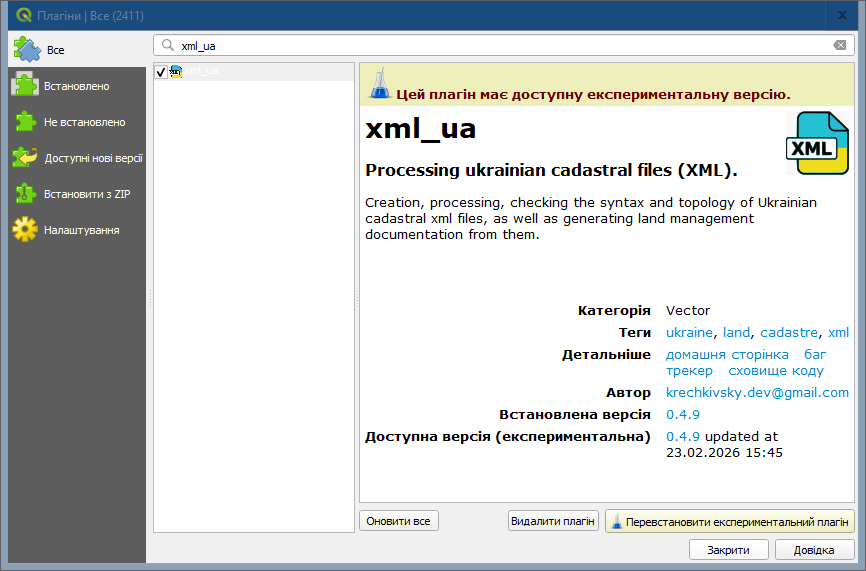
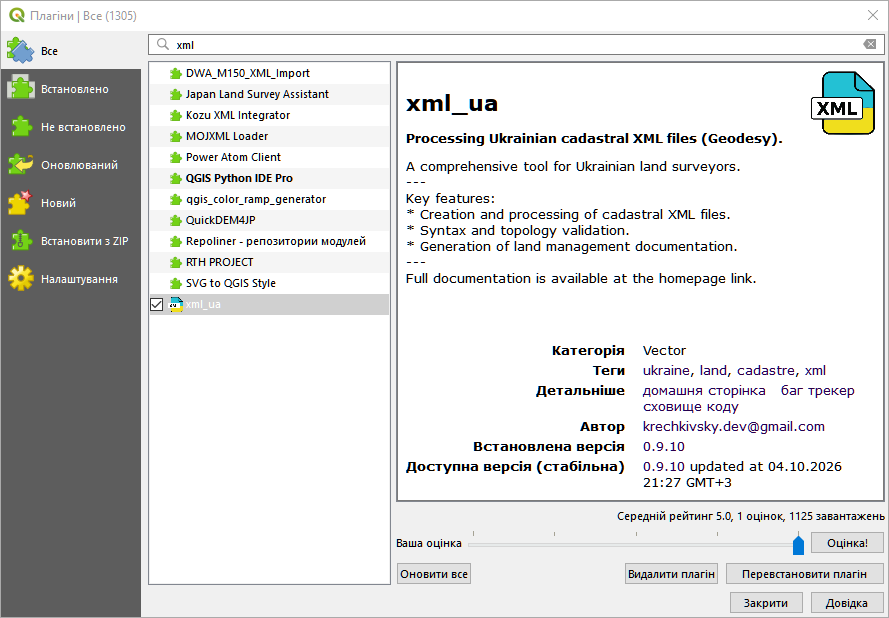
QGIS4

diff --git a/docs/validation.md b/docs/validation.md
@@ -1,35 +1,27 @@
-# Робота над помилками у атрибутах XML
+# Підказки під час роботи з XML
 
+Плагін **xml_ua** допомагає помічати, що потрібно доопрацювати у кадастровому XML. Це не окрема перевірка, яку треба запускати після роботи, а підказки, що з'являються у реальному часі — просто під час редагування.
 
-Ви коли-небудь читали <a href="https://zakon.rada.gov.ua/laws/show/1051-2012-%D0%BF#Text" target="_blank">Постанову 1051</a>? Це такий собі лонгрід, що описує структуру кадастрового XML-файлу. Кажуть, там сотні правил, і кожне з них — чудовий засіб від безсоння. Варто почати читати, і сон приходить миттєво.
+Не потрібно запускати перевірку щоразу після зміни даних або відкривати текстові протоколи з переліком помилок. Плагін одразу позначає проблемні місця: елементи чи значення, які потрібно виправити або додати, виділяються червоним.
 
-Хороша новина: Вам не доведеться вивчати цей документ напам'ять. Плагін **xml_ua** знає все, що у тому лонгріді написано про XML-файли:
+---
+На зображенні показано команду перевірки в меню. Щоб отримувати підказки під час редагування, запускати цю команду не потрібно.
 
-*   Він **не дозволить вам додати зайвий або неправильний атрибут** у файл.
-*   А якщо чогось бракує або щось пішло не так — він обов'язково про це розповість.
+![Команда перевірки XML у меню](images/item_check.png)
+---
 
-## Запускаємо перевірку
-
-Перевірка XML-файлу після кожної зміни атрибутів занадто навантажує процесор, особливо на не нових ноутбуках. Порядок елементів XML строго регламетується. Тому, дії **"Впорядкувати за XSD"** і **"Перевірити"** здійснюється тільки за командою користувача.
-
-![Перевірити XML](images/item_check.png)
-
-Після завершення перевірки у вікні віджета дерево xml буде розкрито на **всіх** елементах з помилкою, і вони будуть виділені червоним кольором. 
-Щоб дізнатися, у чому полягає помилка, досить навести вказівник миші на червоний елмент, і у спливаючій підказці буде повний опис помилки. 
+## Щоб дізнатися, що саме потрібно зробити, наведіть вказівник миші на червоний елемент. З'явиться конкретна підказка — наприклад, який обов'язковий елемент бракує.
 
 <a href="images/err_syntax.png" target="_blank" title="Натисніть, щоб відкрити зображення у повному розмірі">
-    <img src="images/err_syntax.png" alt="Головне вікно плагіна">
+    <img src="images/err_syntax.png" alt="Червоним позначено елемент, а при наведенні показано підказку">
 </a>
 
-Як правило, це відсутність обов'язкового дочірнього елемента. 
+---
 
-Для кожного такого випадку плагін "знає", які дочірні необхідні елементи вже додано, а які ще потрібно додати. Лише ті, які потрібно, будуть з'являтися у контекстному меню.
-
-Взагалі, плагін "знає", що і де можна додати, або видалити з дерева xml. Пам'ятає також, які елементи обов'язковими, а які ні. Досить лише клацнути правою кнопкою миші на потрібному елементі.
+## Коли для виправлення потрібно додати або прибрати елемент, скористайтеся контекстним меню: клацніть по потрібному елементу правою кнопкою миші. У меню плагін покаже доступні дії.
 
 <a href="images/err_correction.png" target="_blank" title="Натисніть, щоб відкрити зображення у повному розмірі">
-    <img src="images/err_correction.png" alt="Головне вікно плагіна">
+    <img src="images/err_correction.png" alt="Контекстне меню з доступними діями для виправлення XML">
 </a>
 
-
-Тепер ви знаєте, де проблема, і можете легко її виправити, не вдаючись до глибокого вивчення нормативних документів.
+Тож вам не потрібно шукати проблему в довгому протоколі чи самостійно згадувати всі вимоги. Дивіться, що виділено червоним, наведіть на це вказівник і скористайтеся підказкою.

diff --git a/docs/install_plugin.md b/docs/install_plugin.md
@@ -1,83 +1,18 @@
 
 # Встановлення плагіна xml_ua
 
-Оскільки плагін наразі не опублікований в офіційному репозиторії QGIS, встановлення відбувається з ZIP-архіву, завантаженого з GitHub.
+### Крок 1: Відкрийте вікно плагінів QGIS
 
-## Передумови
+Перейдіть до головного меню та виберіть **Плагіни** -> **Управління та встановлення плагінів**
 
-Перед встановленням плагіна переконайтеся, що у вас встановлено QGIS 3.34.15. Якщо ні, будь ласка, зверніться до розділу [Встановлення QGIS](./install_qgis.md).
 
-## Якщо потрібна остання версія, тоді тільки ZIP-архів з GitHub:
-
-### Крок 1: Завантаження плагіна з GitHub
-
-1.  Перейдіть на сторінку релізів проєкту на GitHub за посиланням:
-    <a href="https://github.com/krechkivsky/xml_ua/releases" target="_blank">**xml_ua**</a>
-
-2.  Знайдіть останній реліз та завантажте файл `xml_ua-vX.Y.Z.zip`. Збережіть цей архів на вашому комп'ютері.
-
-### Крок 2: Встановлення з ZIP-архіву в QGIS
-
-1.  **Відкрийте QGIS 3.34.15**
-2.  Перейдіть до головного меню та виберіть **Плагіни** -> **Керування та встановлення плагінів...**.
-3.  У вікні, що відкрилося, перейдіть на вкладку **Встановити з ZIP**.
-
-    ![Вікно встановлення плагіна з ZIP-архіву](images/install_from_zip.png)
-
-4.  У полі **ZIP-файл**, натисніть кнопку `...` та виберіть завантажений раніше архів `xml_ua-vX.Y.Z.zip`.
-5.  Натисніть кнопку **"Встановити плагін"**.
-
-6.  QGIS 3.34.15 встановить плагін. Після появи повідомлення про успішне встановлення ви можете закрити вікно менеджера плагінів.
-
-## Якщо підійде стабільна версія:
-
-### Крок 1: Включіть експериментальні плагіни
-
-1.  **Відкрийте QGIS 3.34.15**
-2.  Перейдіть до головного меню та виберіть **Плагіни** ->
-   
 ![Вікно налаштувань плагінів QGIS](images/plugins.png)
 
-3. Включіть експериментальні плагіни
-
-![Експериментальні плагіни QGIS](images/plugins_exper.png)
-
+----
 ### Крок 2: Встановіть плагін з репозитарію QGIS
 
+Щоб не прокручувати великий список плагінів - напишіть у полі пошуку **xml**, поставте галочку навпроти **xml_ua** і натисніть кнопку **"Встановити плагін"**
+
 ![Установлення плагіна з репозитарію QGIS](images/from_repository.png)
+------
 
-
-
-
-## Крок 3: Встановлення бібліотек 
-
-1. Знайдіть і відкрийте папку, у яку встановлено QGIS 3.34.15. Як правило це: **C:\Program Files\QGIS 3.34.15** :
-
-
-
-Запускаємо OSGeo4W.bat. У чорному вікні почергово інсталюємо бібліотеки:
-
-```bash
-python.exe -m pip install --upgrade xmlschema
-```
-
-```bash
-python.exe -m pip install --upgrade docxtpl
-```
-
-```bash
-python.exe -m pip install --upgrade pymorphy2 pymorphy2-dicts-uk
-```
-- Команди не миттєві (1 - 2 хвилини). Запускаємо кожну окремо і дочікуємось повідомлення про успішну інсталяцію бібліотеки.
-- Текст команд можна копіювати з браузера і вставляти в командний рядок.
----
-
-Результат має виглядати приблизно так:
-
-![Інсталяція бібліотек](images/installed_libs.png)
-
-На малюнку виділено команду інсталяції і повідомлення про успішне виконання.
-
----------
-
-Якщо після встановлення на панелі інструментів QGIS не з'явилась іконка плагіна **xml_ua** ![Іконка плагіна](images/toolbar_icon.png) - перевантажте QGIS.
